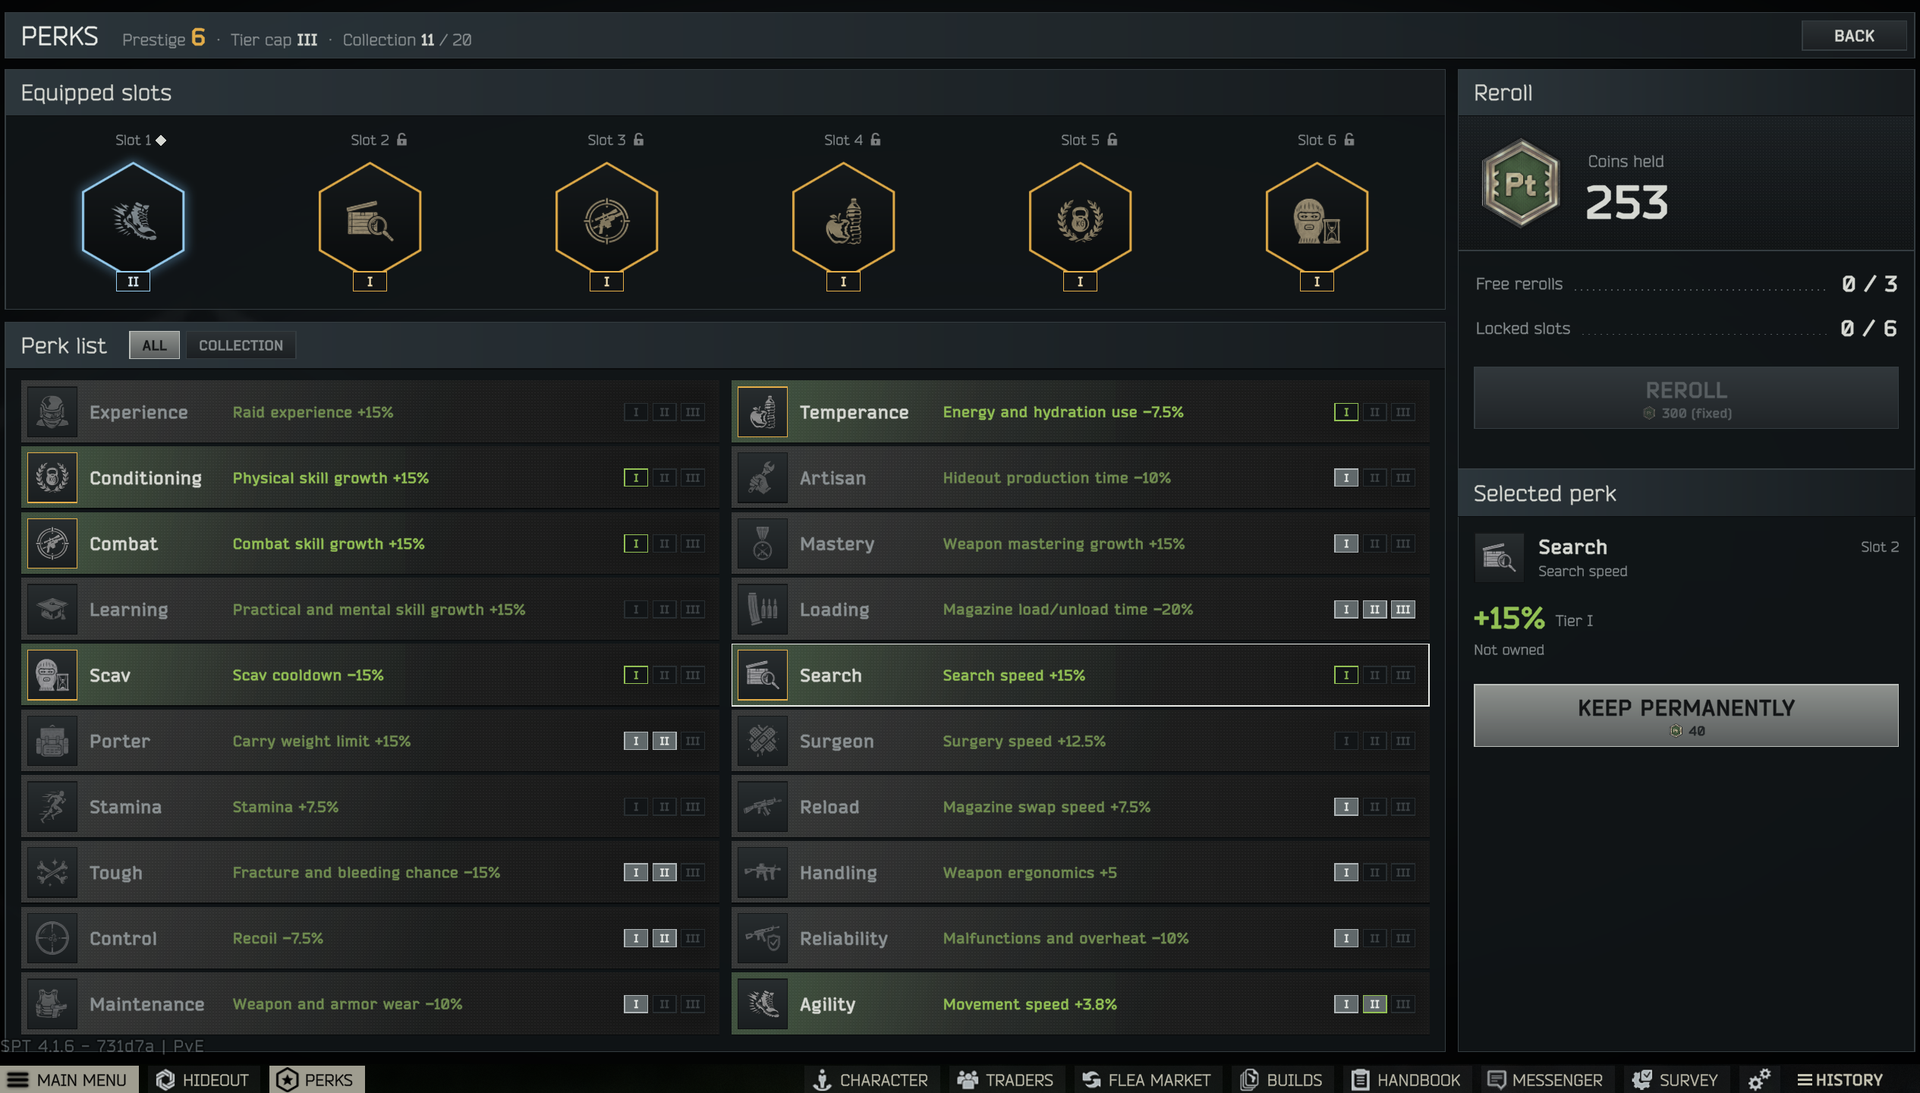
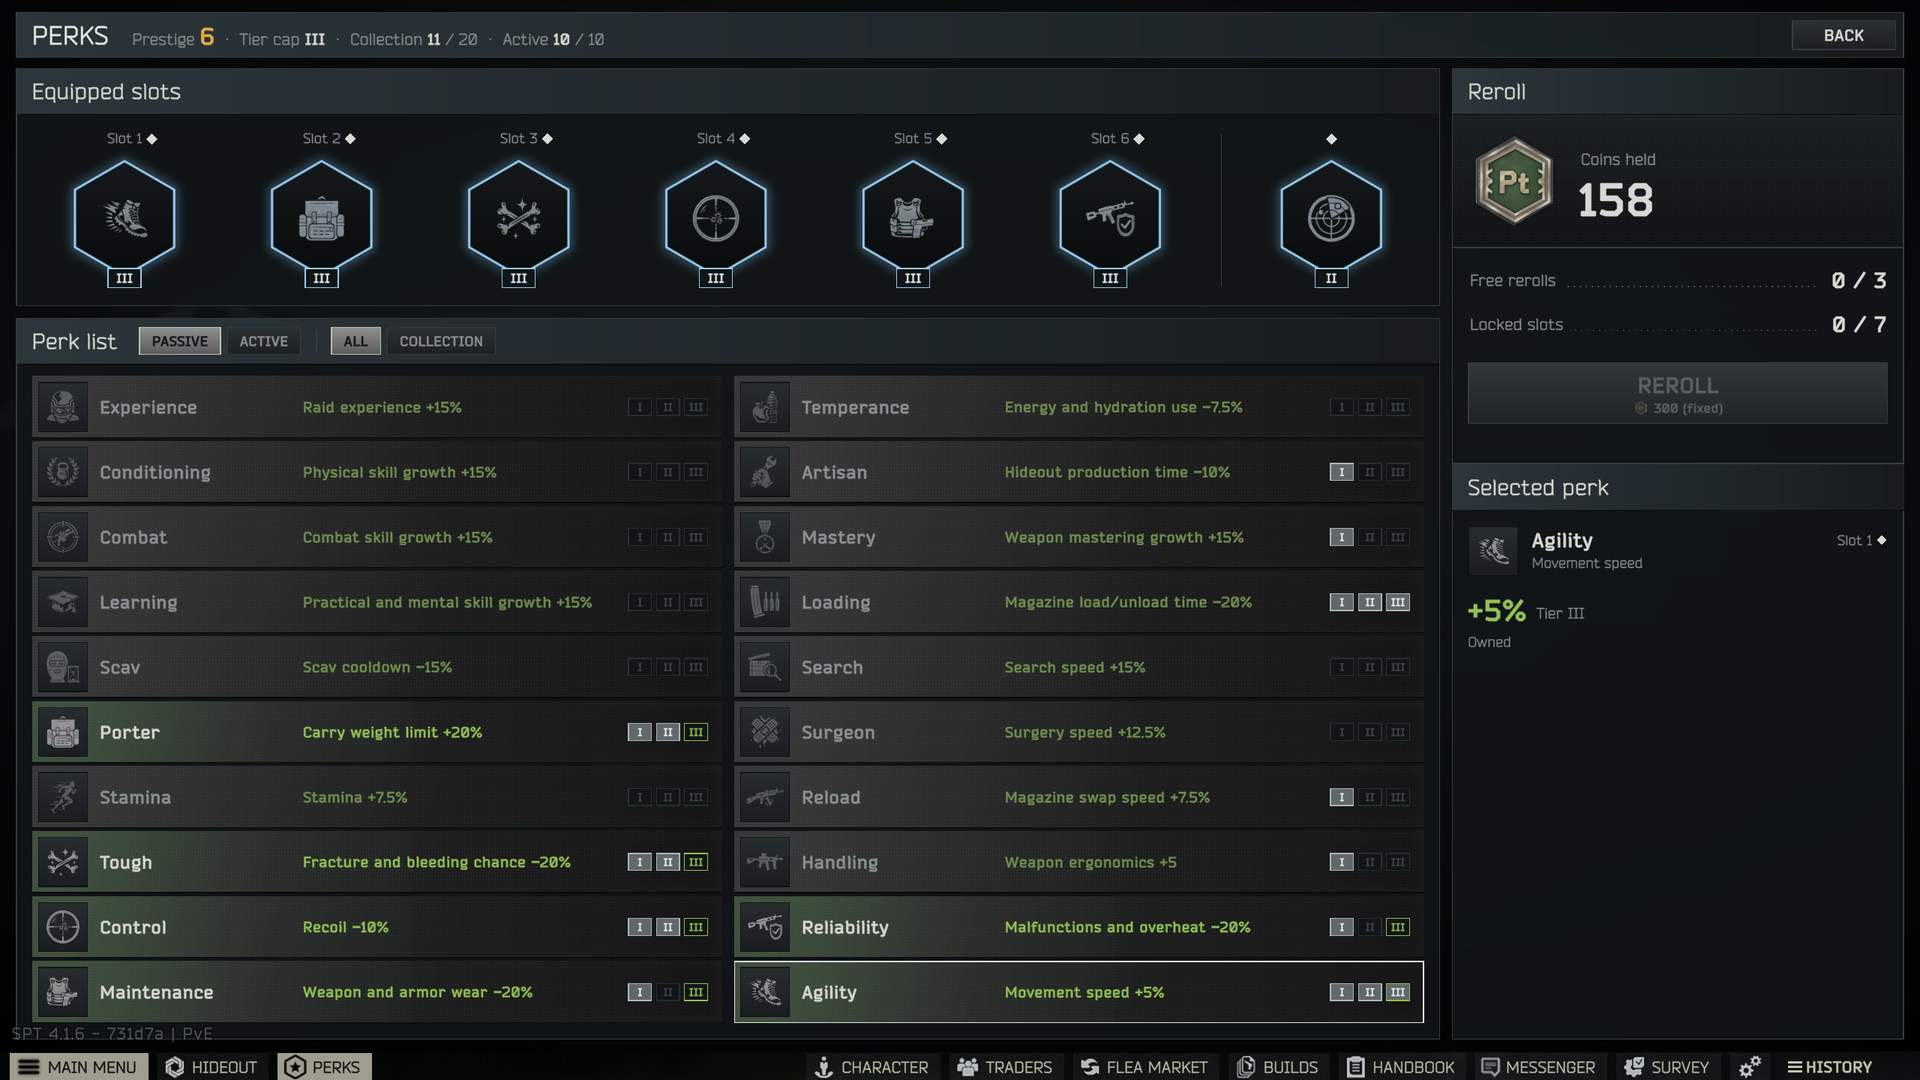
chore: README active perk images and text, Sonar Pulse GIF (English and Korean)

diff --git a/README.md b/README.md
@@ -13,6 +13,7 @@ prestige leaves you a little stronger for the next run:
 - **Perk slots**: one more slot per prestige level. Slots are filled by random rolls you can lock and reroll.
   Keep the perks you like with coins, upgrade them from tier I to III, and drop them into slots so rerolls leave
   them alone.
+- **Active perks**: from P3, one extra slot holds a perk you use in raid with a key.
 - **Prestige coins**: the items you hand over when you prestige turn into coins, and the coins you already have
   carry over to your next prestige. You also find coins in safes and on bosses.
 
@@ -49,7 +50,7 @@ a raid.
 
 ![Taskbar button](media/taskbar.png)
 
-The page follows the game language: Korean, English for everything else.
+The page follows the game language: Korean, English for everything else. The F12 settings are always in English.
 
 ## Prestige requirements
 
@@ -78,6 +79,7 @@ The page follows the game language: Korean, English for everything else.
 | Prestige | P1 | P2 | P3 | P4 | P5 | P6 |
 |---|---|---|---|---|---|---|
 | Slots | 1 | 2 | 3 | 4 | 5 | 6 |
+| Active slot | — | — | 1 | 1 | 1 | 1 |
 | Tier cap | I | I | II | II | III | III |
 
 - The first time you log in after a prestige, the new slot is rolled for you and applies at once.
@@ -167,11 +169,20 @@ multiplied.
 
 ### Active perks
 
+![Active perks on the perk page](media/active-page.png)
+
 - At **P3** an **active slot** opens to the right of the six perk slots. It holds one of 10 active perks that you
   use in raid with a key: **V** by default (F12 menu, `Active perk` > `Use key`).
 - Rerolls, locks, keeping, tiers and dragging work as in the other slots, but the active slot only rolls active
   perks and active perks only fit the active slot. Prices: tier I **80**, II **200**, III **350** coins. The tier
   cap is the same. The **PASSIVE** / **ACTIVE** tabs switch the list.
+
+![Dragging an active perk](media/active-drag.png)
+
+While you drag an active perk the other slots dim, because it only fits the active slot.
+
+![Active perk in raid, running and used](media/active-hud.png)
+
 - In raid a hexagon at the bottom right shows the perk and its state: ready, running (time left), cooldown, used this
   raid, or no target. Pressing the key when there is nothing to use it on does nothing and doesn't use it.
 - A running effect can't be restarted or extended. Cooldowns start when the effect ends. Once-per-raid uses and
@@ -194,6 +205,10 @@ multiplied.
   lower max HP for the rest of the raid.
 - Sonar Pulse echo brightness (naked eye, night vision, thermal) and the wave ring are in the F12 menu under
   `Active perk`.
+
+![Sonar Pulse echoes through walls](https://i.imgur.com/JFRBrTD.gif)
+
+Sonar Pulse in use: the yellow figures are echoes of enemies behind walls.
 
 ## Prestige coins
 
